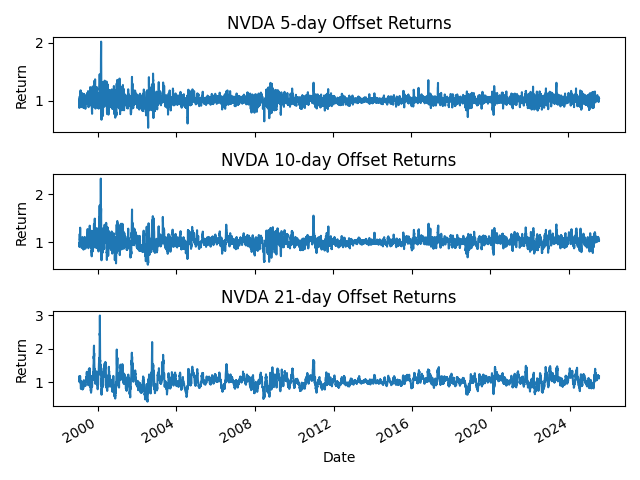
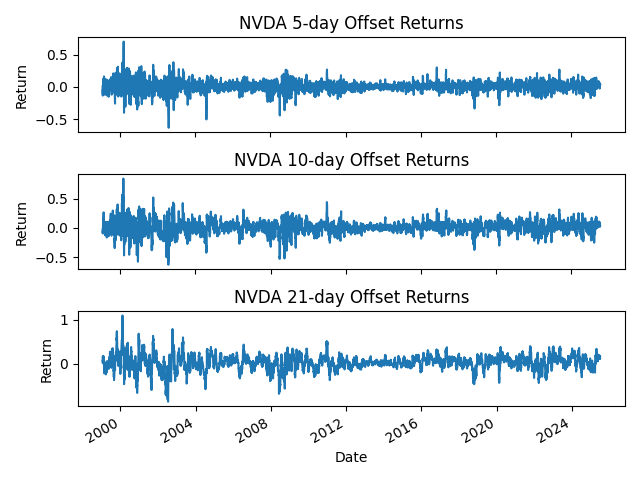
adding notes and fixing small mistake

diff --git a/nday_logReturns.py b/nday_logReturns.py
@@ -45,7 +45,7 @@ def nday_with_dates(price_tuples, ndays_offset):
     dates = [d for d, p in price_tuples]
     prices = [p for d, p in price_tuples]
     new_prices = prices[ndays_offset-1:] + [0]*(ndays_offset-1)
-    returns = np.array(new_prices) / np.array(prices)
+    returns = np.log(np.array(new_prices) / np.array(prices))
     return list(zip(dates, returns))
 
 nday_prices = {} 

diff --git a/readme.md b/readme.md
@@ -23,7 +23,9 @@ This project explores quantitative signals in the AI hardware and semiconductor 
 ---
 
 ### Phase 2: Feature Engineering
-- [ ] Compute N-day log returns for N = 5, 10, 21
+- [x] Compute N-day log returns for N = 5, 10, 21
+  - Completed, not the best way of doing so, could definitely be more efficient but what I've done works. One interesting thing was how the datetime was not cleaned to consider the daylight savings. Some trading days ended at 4 and others at 5. This caused a periodic error from June till some point later in the year every year. Diagnosing the problem was simple, by checking to see if rows with the specific time that was missing existed.
+   
 - [ ] Calculate 20-day **rolling Z-scores** of returns to normalize momentum
 - [ ] Implement Relative Strength Index (RSI) for each ticker
 - [ ] Track Nvidia’s **outperformance vs AMD/TSMC/SOXX** over time
